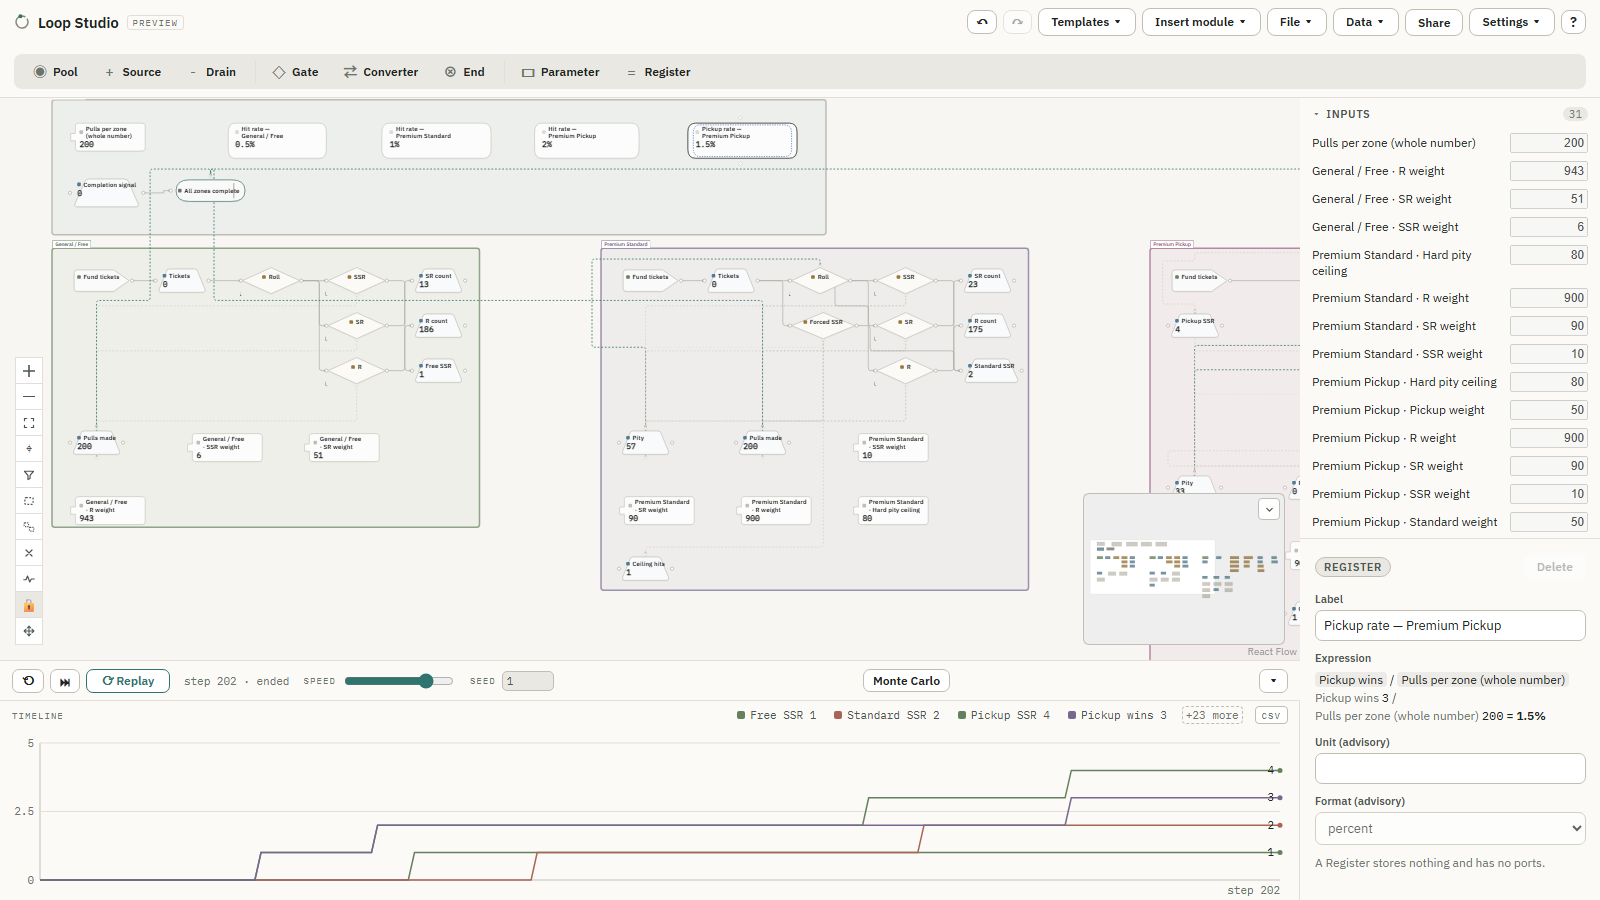
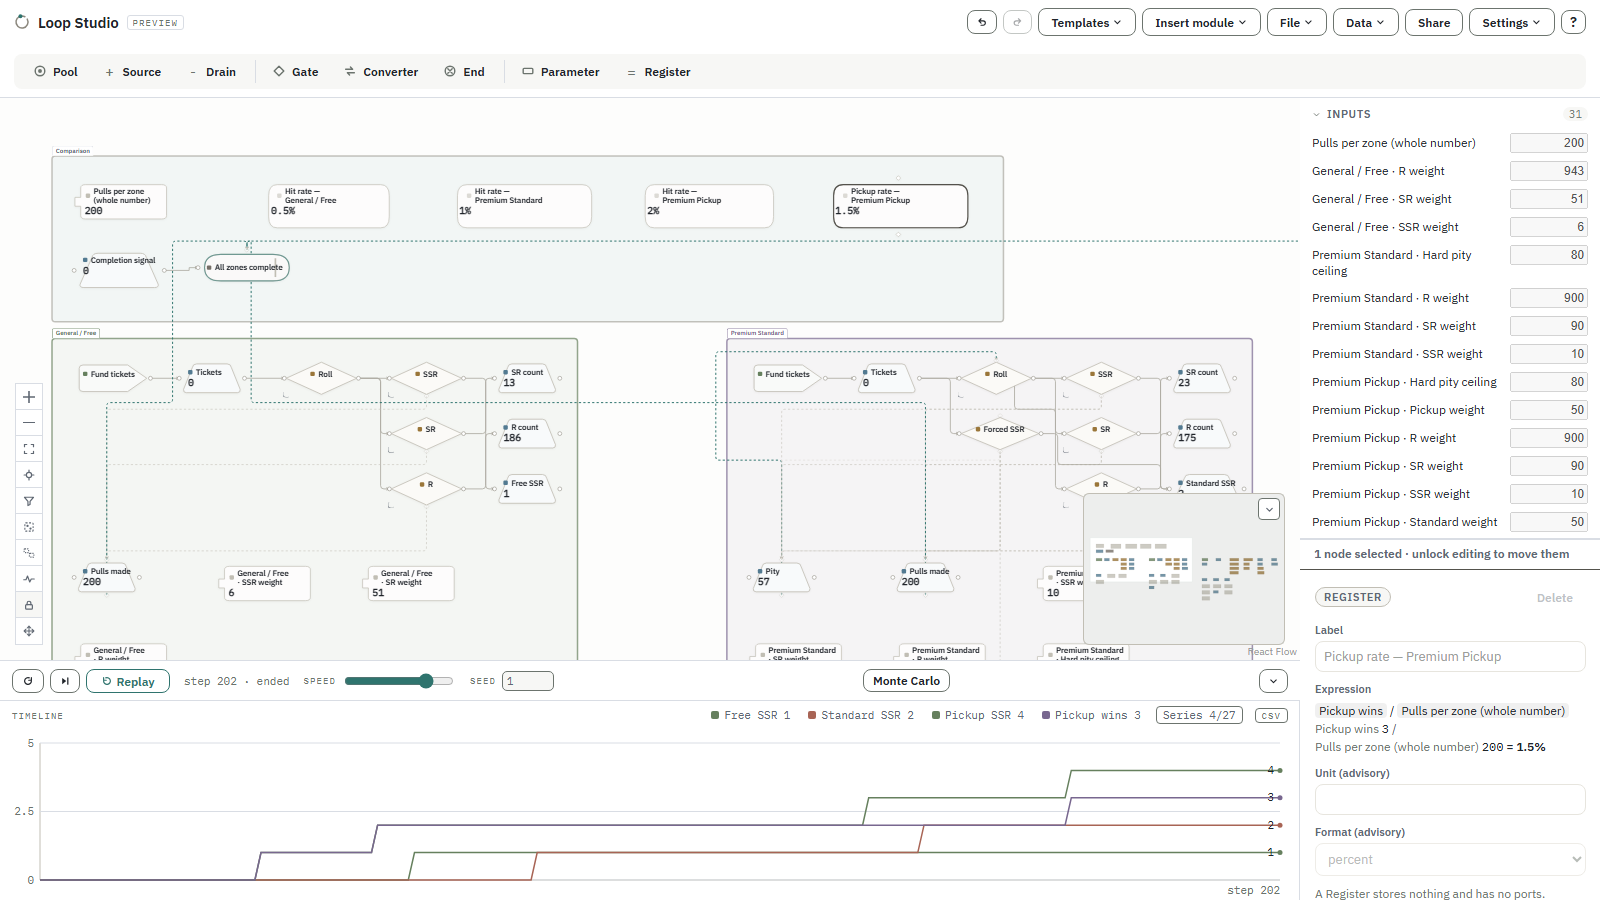
docs(readme): reshoot the three README screenshots from the production UI (#320)
The three images the README shows predated the shared icons (#298), the storage gate and temporary sessions (#297) and the Temporary session button's new look (#319); they are reshot from the production UI (v0.17.2 · build 7d40cdf, on the production deployment's deploy-hash origin, byte-identical to production), each in a fresh browser context with every other origin blocked, at the same 1600 x 900 size, light theme and English as before. hero-coffee.png is taken in a temporary session, so the orange-bordered Temporary session button shows, and its alt text now says so; gacha-overview.png and gacha-pickup-guarantee.png are a personal browser, the same scenes as before, and their alt text still describes what is on screen. File names, places in the README and sizes are unchanged; the two images in docs/assets that the README does not use are left as they are. No app code, version or release note changes.

diff --git a/README.md b/README.md
@@ -17,7 +17,7 @@ session neither reads nor saves stored work, author information or settings
 production flow to a large game economy and a three-zone probability/pity
 comparison.
 
-![Loop Studio's two-tier toolbar and the Coffee roastery Template, grouped into three labelled zone frames, a few steps into a run with the Timeline filling in below](docs/assets/hero-coffee.png)
+![Loop Studio's two-tier toolbar in a temporary session, its orange-bordered Temporary session button beside the menu buttons, and the Coffee roastery Template, grouped into three labelled zone frames, a few steps into a run with the Timeline filling in below](docs/assets/hero-coffee.png)
 
 ## Key features
 
